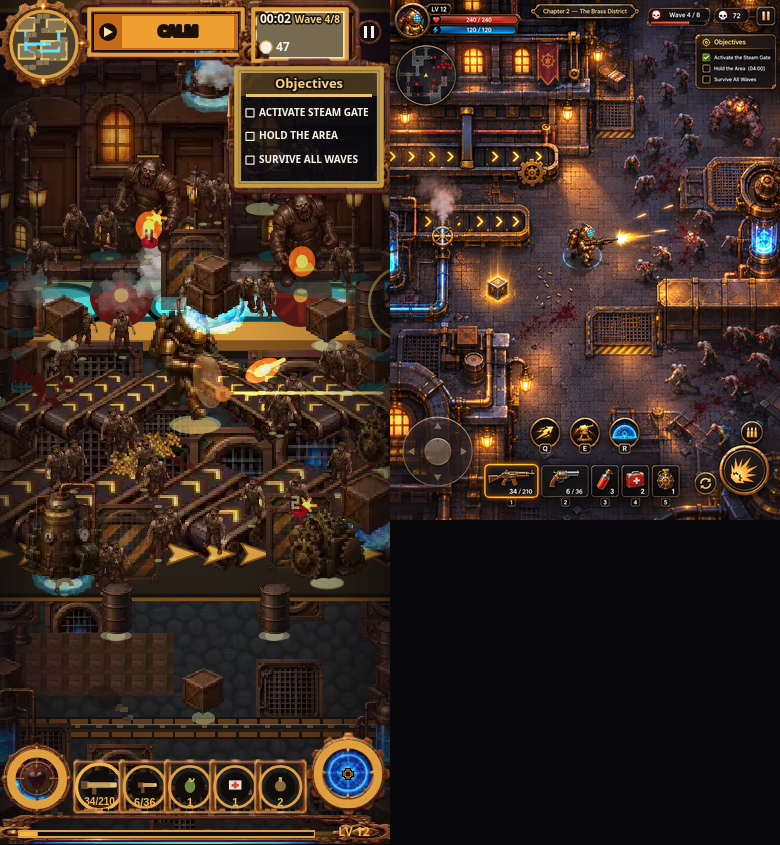
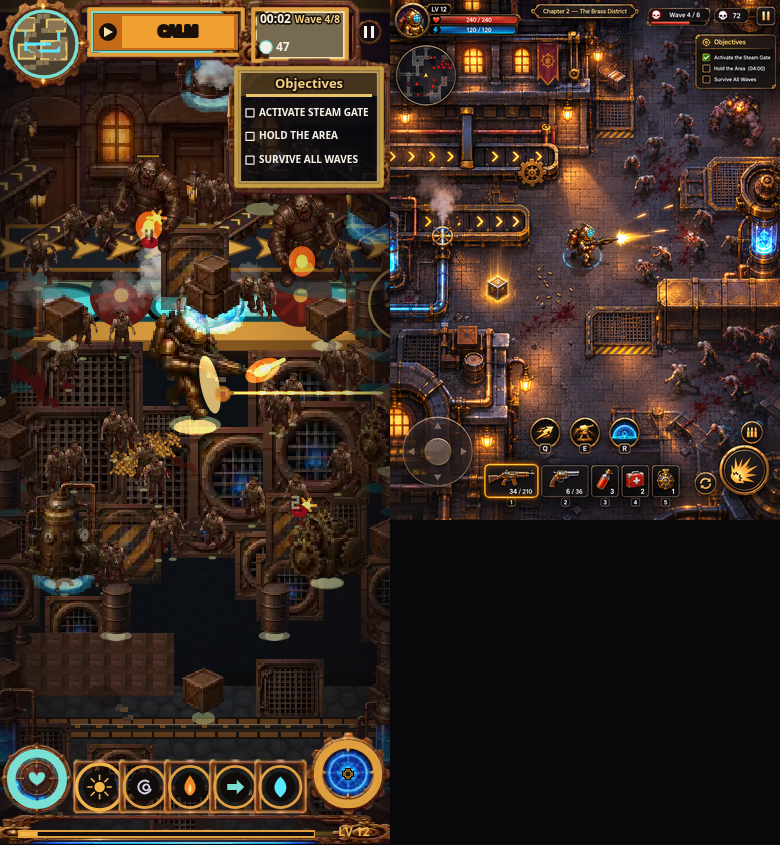
fix(art): clear the hero lane and match the phone slots
The middle tan belt sat on the hunter. One dark belt stays above that lane, the floor under him is slate with a tight warm pool, and the 390 bottom row is the cyan heart plus five power icons and the ultimate.

diff --git a/src/render/weapons.ts b/src/render/weapons.ts
@@ -69,6 +69,71 @@ function paintSlotIcon(c: CanvasRenderingContext2D, i: number, x: number, y: num
   c.restore();
 }
 
+function paintPowerIcon(c: CanvasRenderingContext2D, i: number, x: number, y: number, s: number): void {
+  c.save();
+  c.translate(x, y);
+  c.lineJoin = "round";
+  c.lineCap = "round";
+  if (i === 0) {
+    c.fillStyle = "#f0b44a";
+    c.beginPath();
+    c.arc(0, 0, s * 0.28, 0, Math.PI * 2);
+    c.fill();
+    c.strokeStyle = "#f0b44a";
+    c.lineWidth = Math.max(1.6, s * 0.08);
+    for (let k = 0; k < 8; k++) {
+      const a = (k / 8) * Math.PI * 2;
+      c.beginPath();
+      c.moveTo(Math.cos(a) * s * 0.4, Math.sin(a) * s * 0.4);
+      c.lineTo(Math.cos(a) * s * 0.62, Math.sin(a) * s * 0.62);
+      c.stroke();
+    }
+  } else if (i === 1) {
+    c.strokeStyle = "#d8d2ea";
+    c.lineWidth = Math.max(1.6, s * 0.1);
+    c.beginPath();
+    c.arc(0, 0, s * 0.34, 0.4, Math.PI * 1.7);
+    c.stroke();
+    c.beginPath();
+    c.arc(s * 0.08, s * 0.02, s * 0.16, 2.2, Math.PI * 3.4);
+    c.stroke();
+  } else if (i === 2) {
+    c.fillStyle = "#f08a28";
+    c.beginPath();
+    c.moveTo(0, -s * 0.62);
+    c.quadraticCurveTo(s * 0.46, -s * 0.05, s * 0.22, s * 0.28);
+    c.quadraticCurveTo(0, s * 0.62, -s * 0.22, s * 0.28);
+    c.quadraticCurveTo(-s * 0.46, -s * 0.05, 0, -s * 0.62);
+    c.fill();
+    c.fillStyle = "#ffe08a";
+    c.beginPath();
+    c.moveTo(0, -s * 0.16);
+    c.quadraticCurveTo(s * 0.16, s * 0.08, 0, s * 0.36);
+    c.quadraticCurveTo(-s * 0.16, s * 0.08, 0, -s * 0.16);
+    c.fill();
+  } else if (i === 3) {
+    c.fillStyle = "#7ae0d4";
+    c.beginPath();
+    c.moveTo(-s * 0.42, -s * 0.16);
+    c.lineTo(s * 0.08, -s * 0.16);
+    c.lineTo(s * 0.08, -s * 0.38);
+    c.lineTo(s * 0.48, 0);
+    c.lineTo(s * 0.08, s * 0.38);
+    c.lineTo(s * 0.08, s * 0.16);
+    c.lineTo(-s * 0.42, s * 0.16);
+    c.closePath();
+    c.fill();
+  } else {
+    c.fillStyle = "#5ae8ff";
+    c.beginPath();
+    c.moveTo(0, -s * 0.55);
+    c.bezierCurveTo(s * 0.48, -s * 0.12, s * 0.36, s * 0.28, 0, s * 0.55);
+    c.bezierCurveTo(-s * 0.36, s * 0.28, -s * 0.48, -s * 0.12, 0, -s * 0.55);
+    c.fill();
+  }
+  c.restore();
+}
+
 export function drawWeaponRack(c: CanvasRenderingContext2D, w: World): void {
   if (w.over || w.choosing) return;
   const layout = currentHud();
@@ -104,6 +169,10 @@ export function drawWeaponRack(c: CanvasRenderingContext2D, w: World): void {
     c.strokeStyle = hot ? XP : BRASS;
     c.lineWidth = hot ? 3.4 : 2.8;
     c.stroke();
+    if (layout.phone) {
+      paintPowerIcon(c, i, cx, cy, Math.max(14, sw * 0.46));
+      continue;
+    }
     paintSlotIcon(c, i, cx, cy - 2, Math.max(12, sw * (hot ? 0.48 : 0.4)));
     const label = i === 0 ? "34/210" : i === 1 ? "6/36" : `${Math.max(1, lv)}`;
     c.fillStyle = XP;

diff --git a/src/render/hud.ts b/src/render/hud.ts
@@ -16,7 +16,7 @@ import { drawIcon } from "./icons";
 import { ultFill, ultReady } from "../sim/ult";
 import { heartIcon, hudType, ringMeter } from "../art/look";
 import { blitSheetFit } from "../art/sheet";
-import { BRASS, BRASS_HI, COPPER, CYAN, DANGER, FONT_BODY, HEALTH, INK, IRON, STEAM, XP } from "../shell/theme";
+import { BRASS, BRASS_HI, COPPER, CYAN, DANGER, FONT_BODY, INK, IRON, STEAM, XP } from "../shell/theme";
 import { drawWeaponRack } from "./weapons";
 import { drawXpBar } from "./xp-gain";
 import { zoneChapterAt, zoneTitleAt } from "../sim/zones";
@@ -118,14 +118,21 @@ function drawHealth(ctx: CanvasRenderingContext2D, w: World, box: Box): void {
   const cx = box.x + box.w / 2;
   const cy = box.y + box.h / 2;
   const r = Math.min(box.w, box.h) * 0.42;
+  ctx.save();
+  ctx.globalCompositeOperation = "lighter";
+  ctx.fillStyle = "rgba(90,236,226,0.42)";
+  ctx.beginPath();
+  ctx.arc(cx, cy, r + 10, 0, Math.PI * 2);
+  ctx.fill();
+  ctx.restore();
   blitSheetFit(ctx, "heart_ring", box.x - 8, box.y - 8, box.w + 16, box.h + 16);
   ctx.beginPath();
   ctx.arc(cx, cy, r + 4, 0, Math.PI * 2);
-  ctx.strokeStyle = BRASS;
+  ctx.strokeStyle = CYAN;
   ctx.lineWidth = 3.4;
   ctx.stroke();
-  ringMeter(ctx, cx, cy, r, frac, low ? DANGER : HEALTH);
-  heartIcon(ctx, cx, cy + 1, r * 0.62, low ? DANGER : STEAM);
+  ringMeter(ctx, cx, cy, r, frac, low ? DANGER : CYAN);
+  heartIcon(ctx, cx, cy + 1, r * 0.62, low ? DANGER : CYAN);
   if (w.meta.revive > 0) ink(ctx, "REV", cx, box.y + 8, 9, COPPER, "center");
 }
 

diff --git a/src/render/depth.ts b/src/render/depth.ts
@@ -1,7 +1,7 @@
 import { paintShadow } from "../art/look";
 import { blitSheet } from "../art/sheet";
 import {
-  CARGO_LAND, CARGO_RIDE, CARGO_SLIDE, DROP_ALONG, LANE_VENT_N, LANE_X, beltN, beltVert, beltX, beltY,
+  CARGO_LAND, CARGO_RIDE, CARGO_SLIDE, LANE_VENT_N, LANE_X, beltN, beltX, beltY,
   cargoKind, cargoOn, cargoPhase, cargoX, cargoY, lanePropAt, lanePropCount, ventCount, ventX, ventY,
 } from "../sim/depth";
 import { OB_BARREL, OB_BOILER, OB_CRATE, OB_GEAR } from "../sim/arena";
@@ -35,17 +35,13 @@ function paintFeeder(ctx: CanvasRenderingContext2D, w: World, camX: number, camY
   const n = beltN(w);
   for (let i = 0; i < n; i++) {
     const x = beltX(w, i);
-    const y = beltY(w, i) + (beltVert(w, i) ? DROP_ALONG : 0);
+    const y = beltY(w, i);
     if (!visible(x, y, camX, camY, vw, vh, 80)) continue;
-    const inward = x < LANE_X ? 1 : -1;
-    for (let s = 0; s < 3; s++) {
-      const tx = x + inward * (28 + s * 36);
-      ctx.save();
-      ctx.translate(tx, y);
-      if (inward < 0) ctx.scale(-1, 1);
-      blitSheet(ctx, "conveyor", 0, 0);
-      ctx.restore();
-    }
+    ctx.save();
+    ctx.translate(x, y);
+    if (x >= LANE_X) ctx.scale(-1, 1);
+    blitSheet(ctx, "conveyor", 0, 0);
+    ctx.restore();
   }
 }
 

diff --git a/test/style-r21.test.ts b/test/style-r21.test.ts
@@ -53,6 +53,8 @@ describe("r21 phone look", () => {
     expect(texts).not.toContain("120/120");
     expect(texts).not.toContain("240/240");
     expect(texts).not.toContain("Chapter 1");
+    expect(texts).not.toContain("34/210");
+    expect(texts).not.toContain("6/36");
     expect(texts).not.toContain("Q");
     expect(texts).not.toContain("E");
     expect(texts).not.toContain("R");
@@ -112,8 +114,8 @@ describe("r21 phone look", () => {
 
   it("rims the hunter in lamp amber and dusks the sky", () => {
     const look = readFileSync("src/art/look.ts", "utf8");
-    expect(look.includes("rgba(255,176,80,0.36)")).toBe(true);
-    expect(look.includes("rgba(255,168,72,0.34)")).toBe(true);
+    expect(look.includes("rgba(255,176,80,0.55)")).toBe(true);
+    expect(look.includes("rgba(255,214,120,0.82)")).toBe(true);
     expect(look.includes("rgba(62,220,220,0.32)")).toBe(false);
     const stage = readFileSync("src/render/stage.ts", "utf8");
     expect(stage.includes("#241028")).toBe(true);

diff --git a/src/art/look.ts b/src/art/look.ts
@@ -147,17 +147,18 @@ export function paintSignatureHero(
   const ny = aimY / mag;
   paintShadow(ctx, x, y, 14 * s, 5 * s);
   ctx.save();
-  ctx.fillStyle = "rgba(255,176,80,0.36)";
+  ctx.globalCompositeOperation = "lighter";
+  ctx.fillStyle = "rgba(255,176,80,0.55)";
   ctx.beginPath();
-  ctx.ellipse(x, y + 3, 12 * s, 4.4 * s, 0, 0, Math.PI * 2);
+  ctx.ellipse(x, y + 4, 16, 6, 0, 0, Math.PI * 2);
   ctx.fill();
   ctx.restore();
   blitSheetLean(ctx, heroSpriteId(moving, tick), x, y, flip, bob, 0, s);
   ctx.save();
   ctx.globalCompositeOperation = "lighter";
-  ctx.fillStyle = "rgba(255,168,72,0.34)";
+  ctx.fillStyle = "rgba(255,214,120,0.82)";
   ctx.beginPath();
-  ctx.ellipse(x + 7 * s, y - 22 * s - bob, 8 * s, 15 * s, -0.18, 0, Math.PI * 2);
+  ctx.ellipse(x + 8 * s, y - 20 * s - bob, 5 * s, 16 * s, -0.2, 0, Math.PI * 2);
   ctx.fill();
   ctx.restore();
   if (!shoot) return;

diff --git a/src/render/yard-fx.ts b/src/render/yard-fx.ts
@@ -11,14 +11,14 @@ const BUILDINGS = [
 ];
 
 const BELTS = [
-  { x: 296, y: 420, w: 368, vert: 0 },
+  { x: 336, y: 188, w: 288, vert: 0 },
 ];
 
 const PIPE_RUNS = [
   { x: 296, y: 232, len: 368, vert: 0 },
 ];
 
-const BELT_H = 72;
+const BELT_H = 36;
 const GLASS_AT = [0.22, 0.5, 0.78];
 const VALVE = { x: 424, y: 232 };
 const VALVE_B = { x: 560, y: 232 };
@@ -495,9 +495,9 @@ function paintCrossBelt(
   w: number,
   tick: number,
 ): void {
-  ctx.fillStyle = "#14110e";
+  ctx.fillStyle = "#12161c";
   ctx.fillRect(x, y - BELT_H * 0.5, w, BELT_H);
-  ctx.fillStyle = "#2a2218";
+  ctx.fillStyle = "#1c242c";
   ctx.fillRect(x, y - BELT_H * 0.42, w, BELT_H * 0.84);
   ctx.strokeStyle = BRASS_LO;
   ctx.lineWidth = 3;

diff --git a/test/style-review.test.ts b/test/style-review.test.ts
@@ -107,9 +107,10 @@ describe("visual review gates", () => {
     expect(yard.includes("function blitScaled")).toBe(true);
     expect(yard.includes("TANK_SCALE")).toBe(true);
     expect(yard.includes("BUILD_SCALE")).toBe(true);
-    expect(yard.includes("BELT_H = 72")).toBe(true);
+    expect(yard.includes("BELT_H = 36")).toBe(true);
     expect(yard.includes("y: 232")).toBe(true);
-    expect(yard.includes("y: 420")).toBe(true);
+    expect(yard.includes("y: 188")).toBe(true);
+    expect(yard.includes("y: 420")).toBe(false);
     expect(yard.includes("vert: 1")).toBe(false);
     expect(yard.includes("GLASS_AT")).toBe(true);
     expect(yard.includes("{ x: 424, y: 232 }")).toBe(true);

diff --git a/test/render.test.ts b/test/render.test.ts
@@ -131,9 +131,9 @@ describe("weapon rack", () => {
     drawWeaponRack(stubCtx(texts), createWorld(1));
     expect(texts.some((t) => WPN_TAGS.includes(t))).toBe(false);
     expect(texts.join("")).not.toMatch(/RIVET|SHOT|FLAME|HARP|MORT/);
-    expect(texts).toContain("34/210");
-    expect(texts).toContain("6/36");
-    expect(texts.filter((t) => /^\d+$/.test(t)).length).toBe(3);
+    expect(texts).not.toContain("34/210");
+    expect(texts).not.toContain("6/36");
+    expect(texts.filter((t) => /^\d+$/.test(t)).length).toBe(0);
   });
 
   it("keeps the live HUD free of the old GEARHEART and DIFFICULTY plates", () => {

diff --git a/src/render/ground.ts b/src/render/ground.ts
@@ -524,6 +524,12 @@ export function paintGround(ctx: CanvasRenderingContext2D): void {
   ctx.globalCompositeOperation = "multiply";
   ctx.fillStyle = shade;
   ctx.fillRect(0, FLOOR0 * TILE, ARENA_W, ARENA_H - FLOOR0 * TILE);
+  ctx.fillStyle = "rgba(6,10,16,0.72)";
+  ctx.fillRect(280, 240, 400, 280);
+  ctx.restore();
+  ctx.save();
+  ctx.fillStyle = "rgba(14,20,28,0.5)";
+  ctx.fillRect(300, 250, 360, 260);
   ctx.restore();
   for (let r = FLOOR0; r < ROWS; r++) {
     for (let c = 0; c < COLS; c++) {

diff --git a/test/hud-chrome.test.ts b/test/hud-chrome.test.ts
@@ -78,6 +78,6 @@ describe("phone HUD chrome", () => {
     const body = hud.slice(start, hud.indexOf("function drawXp"));
     expect(body.includes("heartIcon")).toBe(true);
     expect(body.includes("ctx.arc(cx, cy, r * 0.58")).toBe(false);
-    expect(body.includes("low ? DANGER : STEAM")).toBe(true);
+    expect(body.includes("low ? DANGER : CYAN")).toBe(true);
   });
 });
